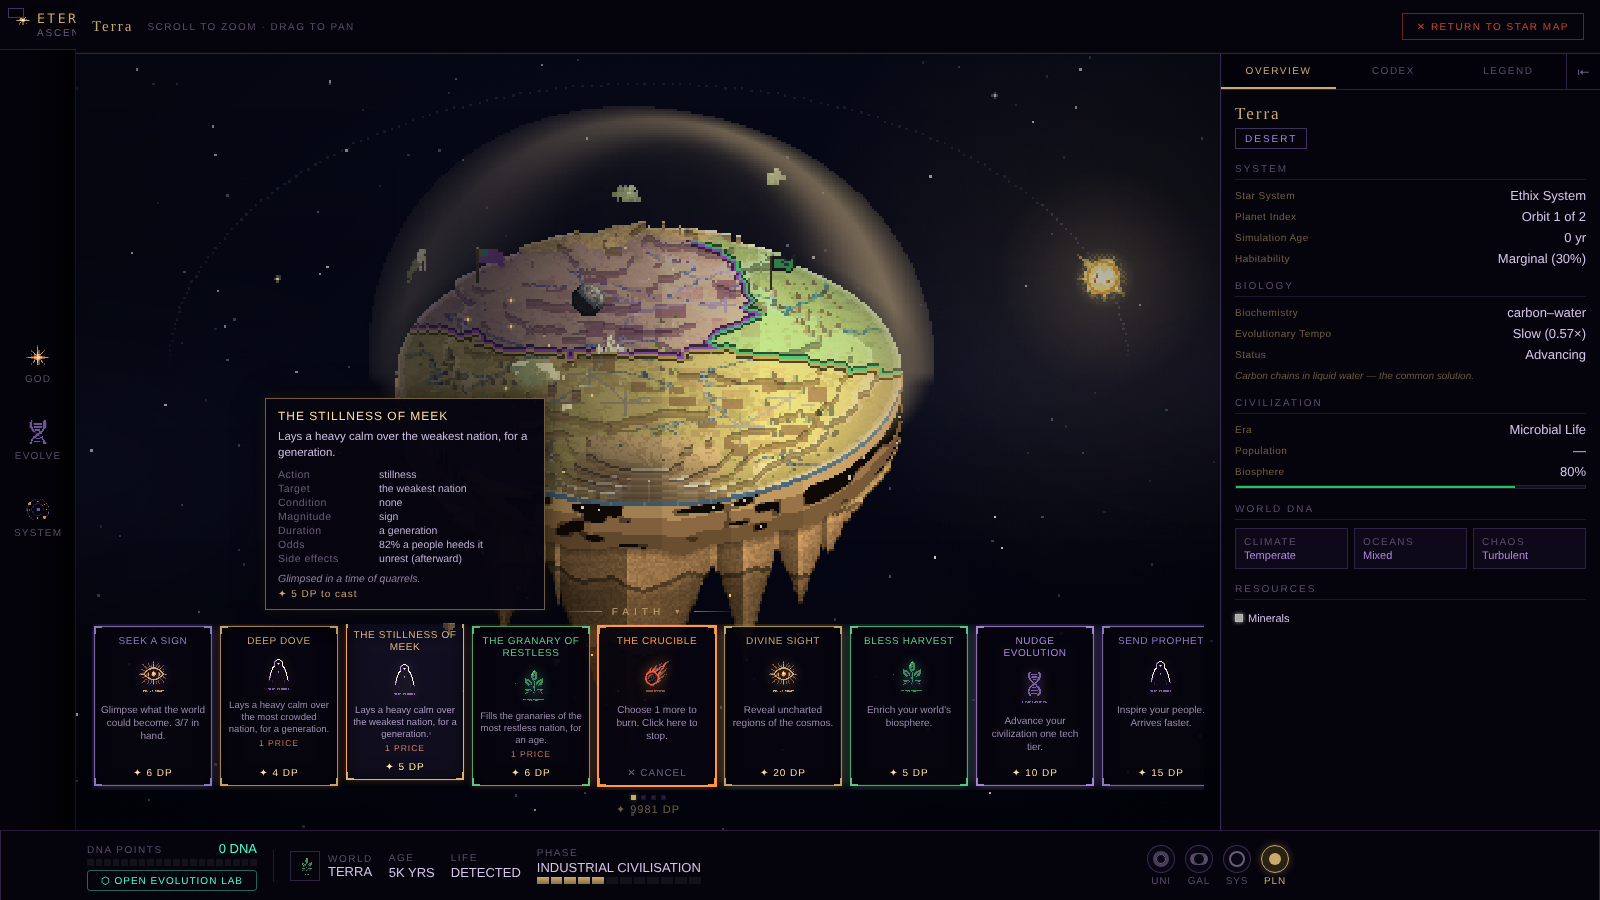
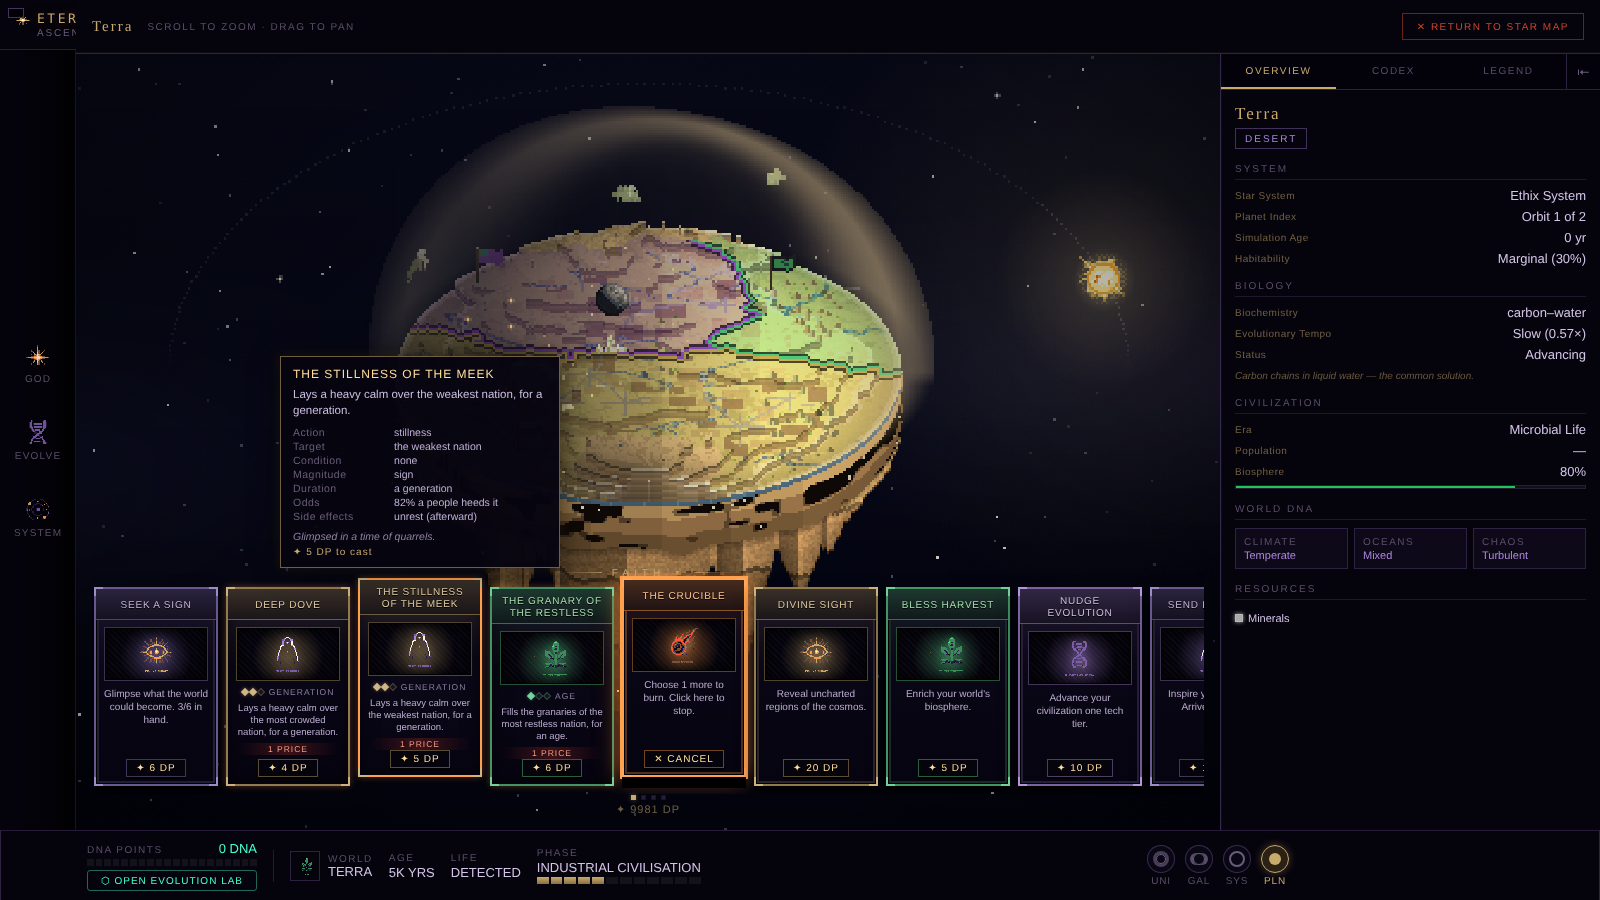
Faith cards: solid framed card UI, hand of 6
- New card frame for the whole Faith deck and its modals: name band,
  framed art window, magnitude pips + duration, price ribbon, cost plate,
  hard pixel drop shadow.
- Cards never go see-through: hover keeps the solid background (an old rule
  swapped it for a 10% tint), unaffordable cards desaturate instead of
  fading, the burn selection rings and lifts.
- The deck row has headroom so a lifted card is not clipped.
- Hand limit 6 (was 7).

Claude-Session: https://claude.ai/code/session_01Rx4hppUCK2mdhtPWieUiFd

diff --git a/index.html b/index.html
@@ -4217,6 +4217,88 @@ body:has(#planet-overlay[style*="flex"]) .faith-deck{z-index:210;left:var(--rail
 .faith-proc-big .faith-icon-wrap{width:56px;height:56px;margin:8px 0 6px}
 .faith-proc-big .faith-icon{width:48px;height:48px}
 @keyframes faithRise{from{opacity:0;transform:translateY(14px) scale(.96)}to{opacity:1;transform:none}}
+/* ── Faith card frame v2: every card in the deck and its modals is solid ── */
+.faith-deck .divine-action-btn,#faith-modal .divine-action-btn{
+  --fa: var(--faith-accent);
+  width:124px;min-width:124px;max-width:124px;min-height:174px;
+  padding:0 0 7px;gap:0;opacity:1;
+  background:linear-gradient(180deg,color-mix(in srgb,var(--fa) 12%,#0c0819) 0%,#0a0716 40%,#060410 100%);
+  border:2px solid color-mix(in srgb,var(--fa) 72%,#000);
+  box-shadow:inset 0 0 0 1px #000,inset 0 0 0 3px color-mix(in srgb,var(--fa) 18%,#0a0716),0 4px 0 #000,0 7px 14px rgba(0,0,0,.65);
+  transition:transform .14s,box-shadow .14s,filter .14s,border-color .14s;
+}
+.faith-deck .divine-action-btn::before,.faith-deck .divine-action-btn::after,
+#faith-modal .divine-action-btn::before,#faith-modal .divine-action-btn::after,
+.faith-deck .divine-action-btn .faith-notch-tr,.faith-deck .divine-action-btn .faith-notch-bl,
+#faith-modal .divine-action-btn .faith-notch-tr,#faith-modal .divine-action-btn .faith-notch-bl{
+  width:9px;height:9px;border-color:color-mix(in srgb,var(--fa) 85%,#fff);z-index:2;
+}
+.faith-deck .divine-action-btn::before,#faith-modal .divine-action-btn::before{top:-2px;left:-2px}
+.faith-deck .divine-action-btn::after,#faith-modal .divine-action-btn::after{bottom:-2px;right:-2px}
+.faith-deck .divine-action-btn .faith-notch-tr,#faith-modal .divine-action-btn .faith-notch-tr{top:-2px;right:-2px}
+.faith-deck .divine-action-btn .faith-notch-bl,#faith-modal .divine-action-btn .faith-notch-bl{bottom:-2px;left:-2px}
+/* Name band */
+.faith-deck .divine-action-name,#faith-modal .divine-action-name{
+  align-self:stretch;max-width:none;min-height:31px;padding:6px 7px 5px;
+  display:flex;align-items:center;justify-content:center;text-align:center;
+  background:linear-gradient(180deg,color-mix(in srgb,var(--fa) 26%,#07050f),color-mix(in srgb,var(--fa) 10%,#07050f));
+  border-bottom:1px solid color-mix(in srgb,var(--fa) 55%,#000);
+  color:color-mix(in srgb,var(--fa) 55%,#fff6dd);text-shadow:0 1px 0 #000;letter-spacing:.8px;
+}
+/* Art window */
+.faith-deck .faith-icon-wrap,#faith-modal .faith-icon-wrap{
+  align-self:stretch;width:auto;height:54px;margin:7px 8px 6px;
+  background:radial-gradient(circle at 50% 56%,color-mix(in srgb,var(--fa) 42%,transparent) 0,transparent 60%),
+    repeating-linear-gradient(45deg,rgba(255,255,255,.035) 0 1px,transparent 1px 4px),#05030b;
+  border:1px solid color-mix(in srgb,var(--fa) 40%,#000);
+  box-shadow:inset 0 0 0 1px #000,inset 0 0 14px rgba(0,0,0,.9);
+  filter:none;
+}
+.faith-deck .faith-icon,#faith-modal .faith-icon{width:36px;height:36px;filter:drop-shadow(0 0 5px var(--faith-glow))}
+.faith-deck .divine-action-desc,#faith-modal .divine-action-desc{padding:0 8px;color:#b9abcc;max-width:none}
+/* Cost plate */
+.faith-deck .divine-action-cost,#faith-modal .divine-action-cost{
+  margin-top:auto;align-self:center;padding:2px 9px 3px;
+  background:#05030b;border:1px solid color-mix(in srgb,var(--fa) 45%,#000);box-shadow:0 2px 0 #000;
+  color:var(--gold2);
+}
+/* Magnitude pips + duration, and the price ribbon (procedural cards) */
+.fc-meta{display:flex;align-items:center;justify-content:center;gap:5px;margin:0 0 5px;
+  font-family:var(--font-pixel);font-size:8.5px;letter-spacing:1px;color:#8d7fa2;text-transform:uppercase}
+.fc-pips{display:flex;gap:2px}
+.fc-pips i{width:6px;height:6px;transform:rotate(45deg);background:#1a1328;box-shadow:inset 0 0 0 1px color-mix(in srgb,var(--fa) 40%,#000)}
+.fc-pips i.on{background:color-mix(in srgb,var(--fa) 85%,#fff);box-shadow:0 0 4px var(--faith-glow)}
+.faith-deck .faith-proc-side,#faith-modal .faith-proc-side{
+  margin:5px 10px 0;padding:1px 6px;align-self:stretch;
+  background:linear-gradient(90deg,transparent,rgba(160,40,30,.35),transparent);
+  color:#f19a80;font-size:8.5px;opacity:1;
+}
+/* States: hover lifts; selected rings; unaffordable desaturates — never see-through */
+.faith-deck .divine-action-btn:hover:not(:disabled),#faith-modal .divine-action-btn:hover:not(:disabled){
+  background:linear-gradient(180deg,color-mix(in srgb,var(--fa) 18%,#0e0a1d) 0%,#0b0818 40%,#070512 100%);
+  border-color:var(--fa);filter:none;transform:translateY(-5px);
+  box-shadow:inset 0 0 0 1px #000,inset 0 0 0 3px color-mix(in srgb,var(--fa) 28%,#0a0716),0 9px 0 #000,0 12px 22px rgba(0,0,0,.7),0 0 18px var(--faith-glow);
+}
+.faith-deck .divine-action-btn:disabled,.faith-deck .divine-action-btn.faith-off{opacity:1;filter:grayscale(.8) brightness(.62)}
+.faith-deck .divine-action-btn:disabled:hover,.faith-deck .divine-action-btn.faith-off:hover{filter:grayscale(.6) brightness(.8)}
+.faith-deck .divine-action-btn:disabled .divine-action-cost,.faith-deck .faith-off .divine-action-cost{color:#9a7070}
+.faith-deck .divine-action-btn.selected,.faith-deck .faith-burning .faith-proc.faith-pick{
+  border-color:#ffa04d;transform:translateY(-9px);opacity:1;filter:none;
+  box-shadow:inset 0 0 0 1px #000,inset 0 0 0 3px rgba(255,150,70,.3),0 11px 0 #000,0 0 0 2px #ffa04d,0 0 22px rgba(255,140,60,.75);
+}
+.faith-deck .faith-burning .faith-proc{filter:none}
+.faith-deck.folded .divine-action-btn:not(:first-child){margin-left:-116px}
+/* Headroom so a lifted or selected card is not clipped by the scrolling row. */
+.faith-deck .divine-panel{padding-top:14px;margin-top:-12px;padding-bottom:8px;margin-bottom:-4px}
+.faith-deck.folded .divine-action-btn{filter:none}
+/* Seek / crucible results, larger */
+#faith-modal .divine-action-btn.faith-proc-big{width:200px;min-width:200px;max-width:200px;min-height:284px;padding-bottom:10px}
+#faith-modal .faith-proc-big .divine-action-name{font-size:12px;min-height:40px}
+#faith-modal .faith-proc-big .faith-icon-wrap{height:96px;margin:9px 11px 8px}
+#faith-modal .faith-proc-big .faith-icon{width:56px;height:56px}
+#faith-modal .faith-proc-big .divine-action-desc{font-size:11px;padding:0 11px}
+#faith-modal .faith-proc-big .fc-meta{font-size:9.5px}
+#faith-modal .faith-proc-big .fc-pips i{width:7px;height:7px}
 #faith-modal .fm-btn{
   background:transparent;border:1px solid var(--border);color:var(--dim);font-family:var(--font-pixel);
   font-size:10px;letter-spacing:2px;padding:8px 18px;cursor:pointer;

diff --git a/src/ui/FaithHand.ts b/src/ui/FaithHand.ts
@@ -15,13 +15,13 @@
 import { gameState, runtimeState } from '../simulation/GameState';
 import {
   discover, forge, cast, signalsOf, describe, anatomy, isBane, iconOf,
-  type FaithCard, type ForgeKind, type ActionId,
+  DURATIONS, type FaithCard, type ForgeKind, type ActionId,
 } from '../simulation/FaithCards';
 import { SeedRNG } from '../utils/SeedRNG';
 import type { DivineEffectKind } from '../rendering/IsoDioramaRenderer';
 
 export const SEEK_COST = 6;
-export const HAND_MAX = 7;
+export const HAND_MAX = 6;
 
 export interface FaithHandDeps {
   chat(text: string, kind: 'god' | 'system'): void;
@@ -63,6 +63,7 @@ function face(c: FaithCard, big = false): string {
     <span class="faith-notch-tr"></span><span class="faith-notch-bl"></span>
     <span class="divine-action-name">${esc(c.name)}</span>
     <span class="faith-icon-wrap"><img class="faith-icon" src="/assets/pixel/divine/${iconOf(c)}.png" alt="" width="32" height="32"/></span>
+    <span class="fc-meta"><span class="fc-pips">${[1, 2, 3].map(i => `<i${i <= c.magnitude ? ' class="on"' : ''}></i>`).join('')}</span>${DURATIONS[c.duration - 1].replace(/^an? /, '')}</span>
     <span class="divine-action-desc">${esc(describe(c))}</span>
     ${c.sides.length ? `<span class="faith-proc-side">${c.sides.length === 1 ? '1 price' : `${c.sides.length} prices`}</span>` : ''}
     ${c.forged ? `<span class="faith-proc-forged">${'✦'.repeat(Math.min(3, c.forged))}</span>` : ''}
